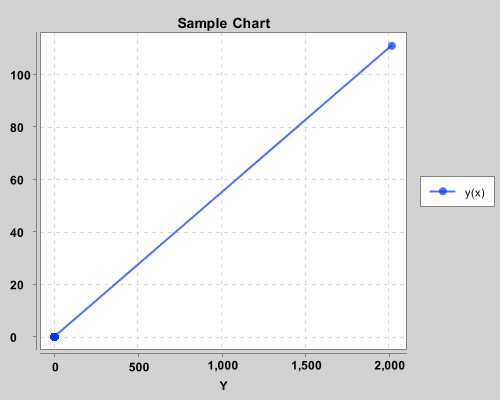
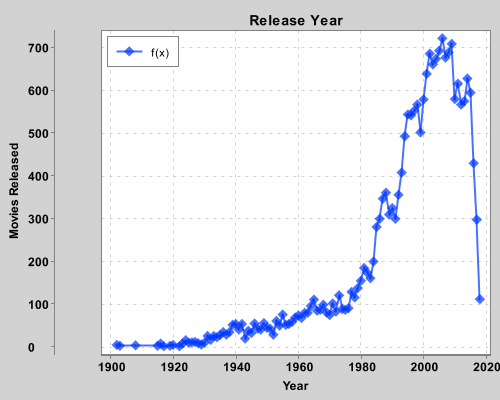
Fixed data visualization

diff --git a/src/main/java/Homework4.java b/src/main/java/Homework4.java
@@ -90,17 +90,22 @@ public class Homework4 {
                 }
             }
         }
+
+
+        chart.remove(0);
+
+
         int [] releaseYear = new int[chart.size()];
         int[] amountReleased = new int[chart.size()];
+        int count = 0;
         for(int year : chart.keySet()){
-            int count = 0;
             releaseYear[count] = year;
             amountReleased[count] = chart.get(year);
             count++;
         }
 
 
-        chart.remove(0);
+
         System.out.println();
 
         //System.out.println(chart);
@@ -110,10 +115,12 @@ public class Homework4 {
         }
 
 
+
+
         XYChart display = new XYChart(500, 400);
-        display.setTitle("Sample Chart");
-        display.setXAxisTitle("X");
-        display.setYAxisTitle("Y");
+        display.setTitle("Release Year");
+        display.setXAxisTitle("Year");
+        display.setYAxisTitle("Movies Released");
         display.getStyler().setXAxisMin(1900.00);
 
         display.getStyler().setLegendPosition(Styler.LegendPosition.InsideNW);
@@ -127,7 +134,7 @@ public class Homework4 {
 
 
         new SwingWrapper(display).displayChart();
-
+        BitmapEncoder.saveBitmap(display, "./Sample_Chart", BitmapEncoder.BitmapFormat.PNG);
 
 
 
